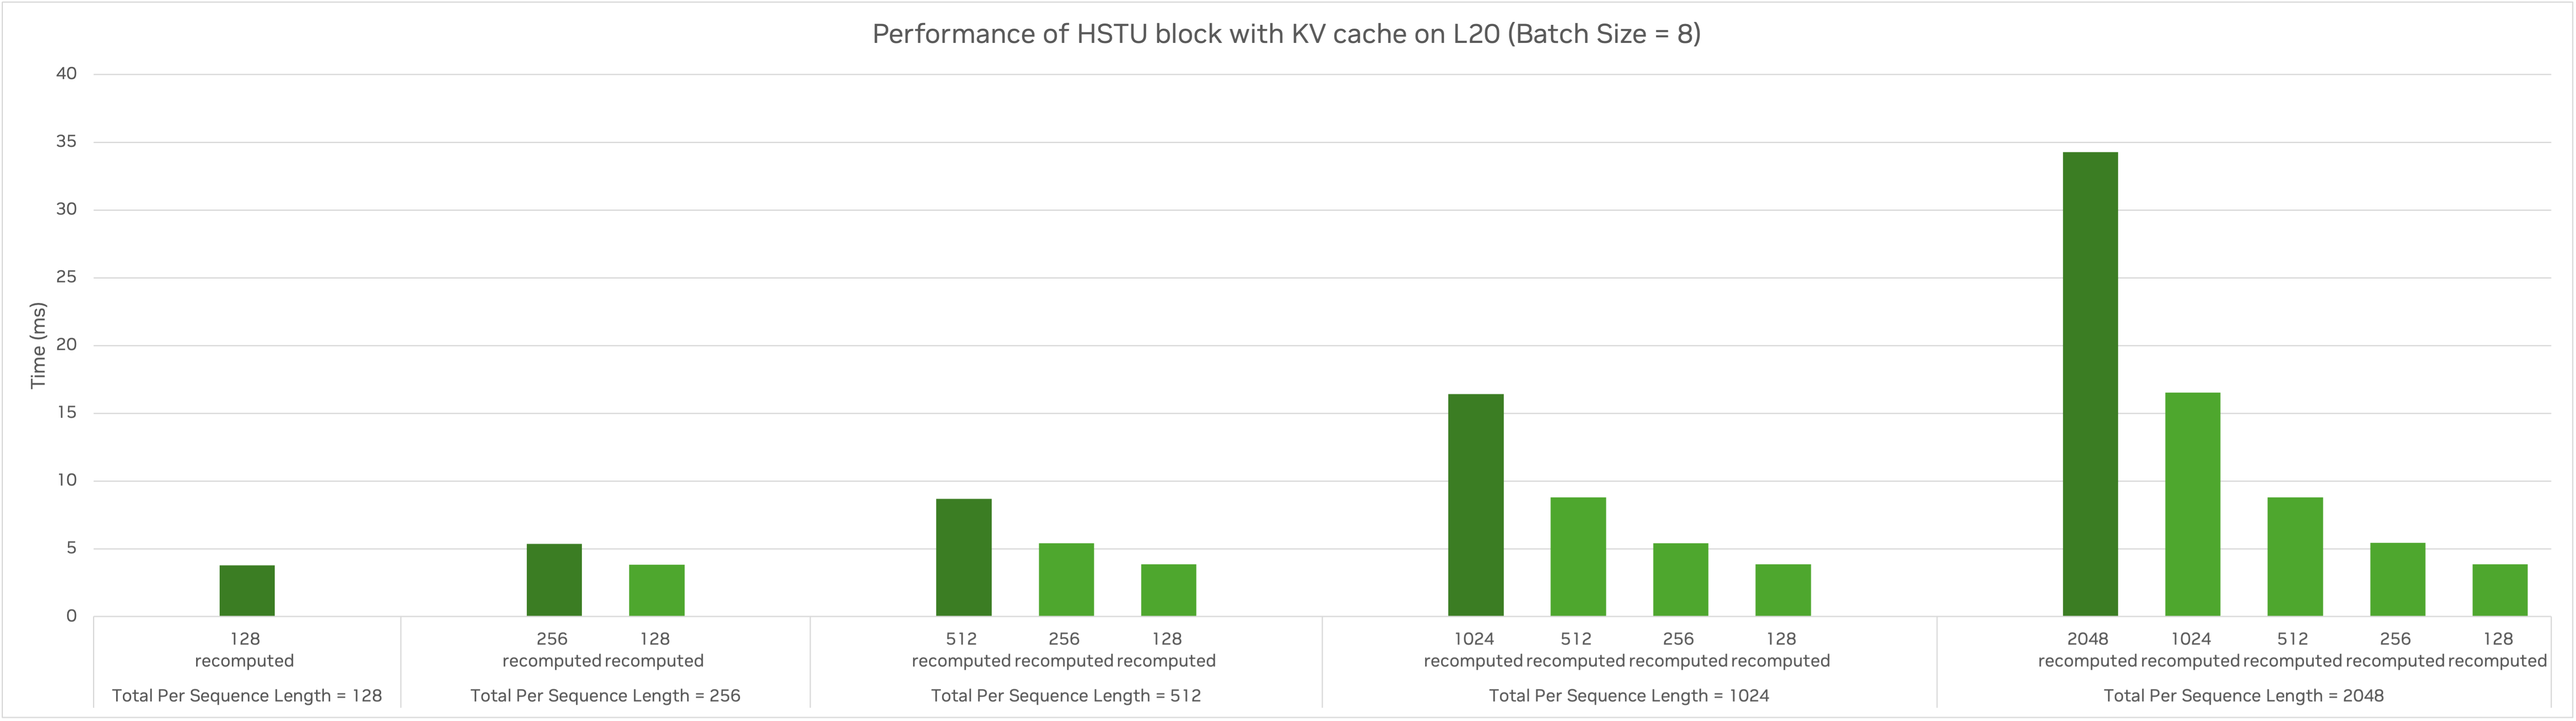
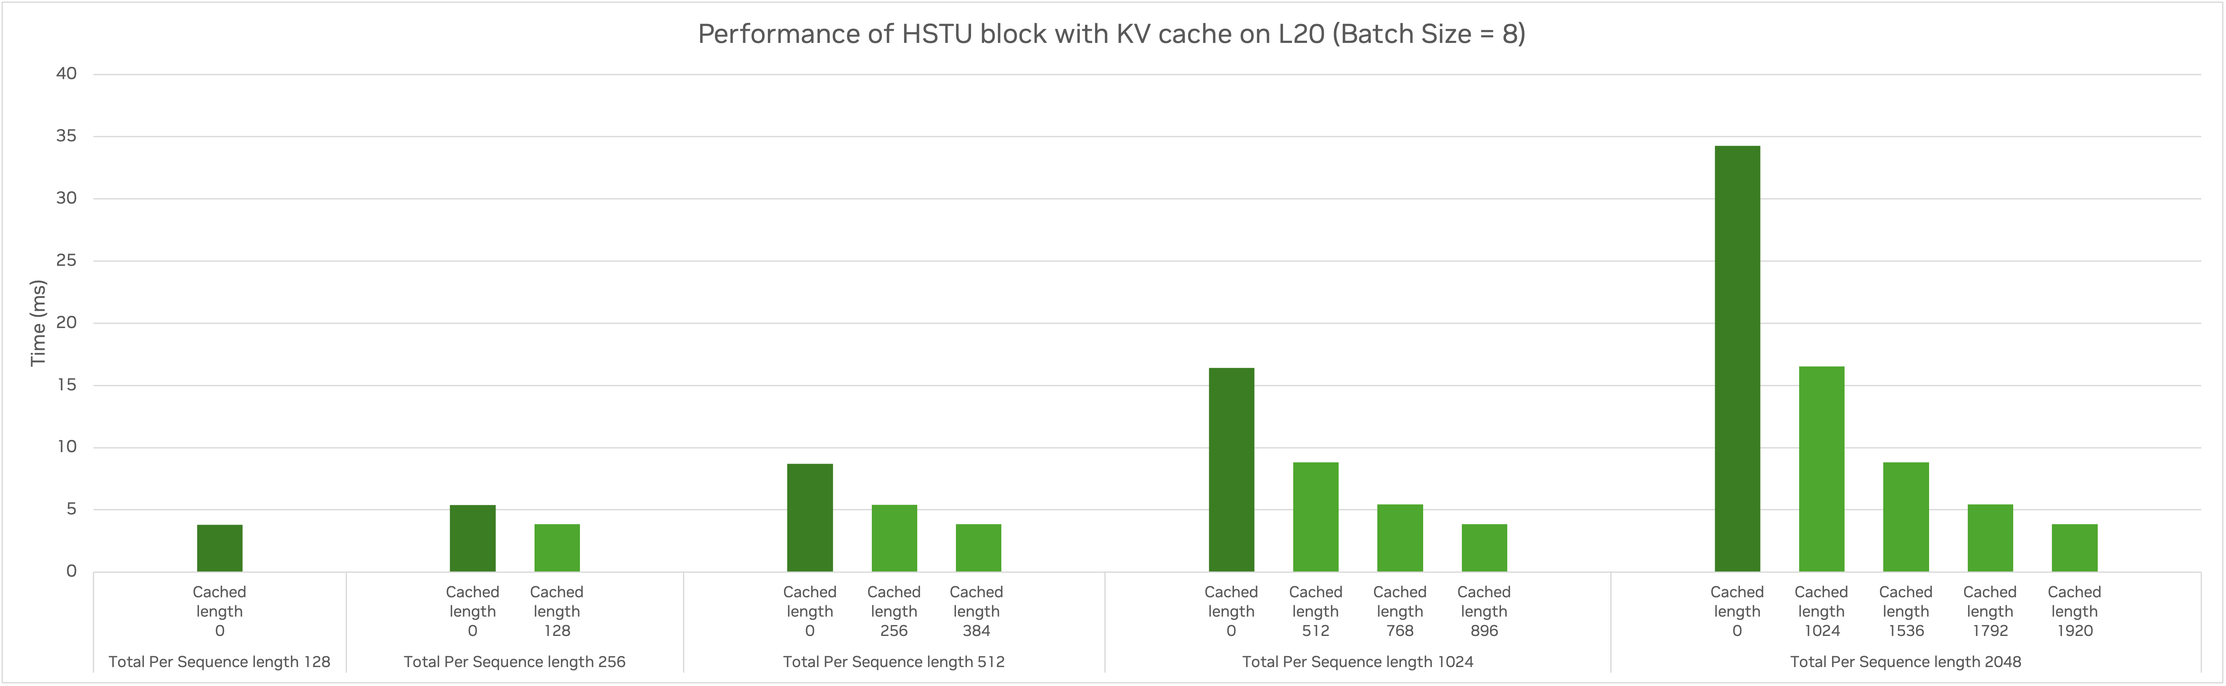
Modify inference benchmark and update doc.

diff --git a/examples/hstu/benchmark/inference_benchmark.py b/examples/hstu/benchmark/inference_benchmark.py
@@ -31,8 +31,8 @@ from inference_ranking_gr import InferenceRankingGR
 def run_ranking_gr_inference():
     max_batch_size = 16
     max_seqlen = 4096
-    max_num_candidates = 128
-    max_incremental_seqlen = 64
+    max_num_candidates = 256
+    max_incremental_seqlen = 128
 
     # context_emb_size = 1000
     item_fea_name, item_vocab_size = "item_feat", 10000
@@ -50,11 +50,15 @@ def run_ranking_gr_inference():
         [fc.max_sequence_length * len(fc.feature_names) for fc in feature_configs]
     )
 
-    hidden_dim_size = 512
+    hidden_dim_size = 1024
     num_heads = 4
-    head_dim = 128
+    head_dim = 256
     num_layers = 8
     inference_dtype = torch.bfloat16
+    hstu_cudagraph_configs = {
+        "batch_size": [1, 2, 4, 8],
+        "length_per_sequence": [i * 256 in range(2, 18)],
+    }
 
     hstu_config = get_inference_hstu_config(
         hidden_size=hidden_dim_size,
@@ -66,7 +70,7 @@ def run_ranking_gr_inference():
 
     _blocks_in_primary_pool = 10240
     _page_size = 32
-    _offload_chunksize = 64
+    _offload_chunksize = 8192
     kv_cache_config = get_kvcache_config(
         blocks_in_primary_pool=_blocks_in_primary_pool,
         page_size=_page_size,
@@ -104,24 +108,40 @@ def run_ranking_gr_inference():
             kvcache_config=kv_cache_config,
             task_config=task_config,
             use_cudagraph=True,
+            cudagraph_configs=hstu_cudagraph_configs,
         )
         model_predict.bfloat16()
         model_predict.eval()
 
         data_generator = RandomInferenceDataGenerator(
-            feature_configs,
-            item_fea_name,
-            [],
-            action_fea_name,
-            4096,
-            max_batch_size,
-            max_seqlen,
-            max_num_candidates,
-            max_incremental_seqlen,
-            False,
+            feature_configs=feature_configs,
+            item_feature_name=item_fea_name,
+            contextual_feature_names=[],
+            action_feature_name=action_fea_name,
+            max_num_users=16,
+            max_batch_size=8,  # test batch size
+            max_seqlen=2304,
+            max_num_candidates=max_num_candidates,
+            max_incremental_seqlen=max_incremental_seqlen,
+            full_mode=True,
         )
 
-        num_test_batches = 20
+        num_warmup_batches = 16
+        for idx in range(num_warmup_batches):
+            uids = data_generator.get_inference_batch_user_ids()
+
+            if uids is None:
+                break
+
+            cached_start_pos, cached_len = model_predict.get_user_kvdata_info(uids)
+            truncate_start_pos = cached_start_pos + cached_len
+            batch = data_generator.get_random_inference_batch(uids, truncate_start_pos)
+
+            model_predict.forward(batch, uids, truncate_start_pos)
+
+        num_test_batches = 16
+        ts_start, ts_end = [torch.cuda.Event(enable_timing=True) for _ in range(2)]
+        predict_time = 0.0
         for idx in range(num_test_batches):
             uids = data_generator.get_inference_batch_user_ids()
 
@@ -131,7 +151,14 @@ def run_ranking_gr_inference():
             cached_start_pos, cached_len = model_predict.get_user_kvdata_info(uids)
             truncate_start_pos = cached_start_pos + cached_len
             batch = data_generator.get_random_inference_batch(uids, truncate_start_pos)
+
+            torch.cuda.synchronize()
+            ts_start.record()
             model_predict.forward(batch, uids, truncate_start_pos)
+            ts_end.record()
+            torch.cuda.synchronize()
+            predict_time += ts_start.elapsed_time(ts_end)
+        print("Total time(ms):", predict_time)
 
 
 if __name__ == "__main__":

diff --git a/examples/hstu/dataset/random_inference_dataset.py b/examples/hstu/dataset/random_inference_dataset.py
@@ -38,7 +38,7 @@ class RandomInferenceDataGenerator:
         max_num_candidates (int): The maximum candidates number.
         max_incremental_seqlen (int): The maximum incremental length of HISTORY
                                       item AND action sequence.
-        incremental_mode (bool): The flag for incremental mode.
+        full_mode (bool): The flag for full batch mode.
     """
 
     def __init__(
@@ -52,7 +52,7 @@ class RandomInferenceDataGenerator:
         max_seqlen: int = 4096,
         max_num_candidates: int = 200,
         max_incremental_seqlen: int = 64,
-        incremental_mode: bool = False,
+        full_mode: bool = False,
     ):
         super().__init__()
 
@@ -73,16 +73,22 @@ class RandomInferenceDataGenerator:
         self._max_num_users = min(max_num_users, 2**16)
         self._max_batch_size = max_batch_size
         self._max_hist_len = max_seqlen - max_num_candidates
-        self._max_incr_fea_len = max(max_incremental_seqlen // 2, 1)
+        self._max_incr_fea_len = max(max_incremental_seqlen, 1)
         self._max_num_candidates = max_num_candidates
+
+        self._full_mode = full_mode
 
         self._item_history: Dict[int, torch.Tensor] = dict()
         self._action_history: Dict[int, torch.Tensor] = dict()
 
     def get_inference_batch_user_ids(self) -> Optional[torch.Tensor]:
-        batch_size = random.randint(1, self._max_batch_size)
-        user_ids = torch.randint(self._max_num_users, (batch_size,)).tolist()
-        user_ids = list(set(user_ids))
+        if self._full_mode:
+            batch_size = self._max_batch_size
+            user_ids = list(range(self._max_batch_size))
+        else:
+            batch_size = random.randint(1, self._max_batch_size)
+            user_ids = torch.randint(self._max_num_users, (batch_size,)).tolist()
+            user_ids = list(set(user_ids))
 
         user_ids = torch.tensor(
             [
@@ -92,6 +98,15 @@ class RandomInferenceDataGenerator:
                 or len(self._item_history[uid]) < self._max_hist_len
             ]
         ).long()
+        if self._full_mode and len(user_ids) == 0:
+            batch_size = self._max_batch_size
+            user_ids = list(
+                range(
+                    self._max_batch_size,
+                    min(self._max_batch_size * 2, self._max_num_users),
+                )
+            )
+            user_ids = torch.tensor(user_ids).long()
         return user_ids if len(user_ids) > 0 else None
 
     def get_random_inference_batch(
@@ -122,6 +137,13 @@ class RandomInferenceDataGenerator:
         num_candidates = torch.randint(
             low=1, high=self._max_num_candidates + 1, size=(batch_size,)
         )
+        if self._full_mode:
+            incr_lengths = torch.full((batch_size,), self._max_incr_fea_len)
+            new_lengths = torch.clamp(
+                lengths + incr_lengths, max=self._max_hist_len
+            ).long()
+            incr_lengths = new_lengths - lengths
+            num_candidates = torch.full((batch_size,), self._max_num_candidates)
 
         # Caveats: truncate_start_positions is for interleaved item-action sequence
         item_start_positions = (truncate_start_positions / 2).to(torch.int32)

diff --git a/examples/hstu/model/inference_ranking_gr.py b/examples/hstu/model/inference_ranking_gr.py
@@ -294,6 +294,9 @@ class InferenceRankingGR(torch.nn.Module):
                 kv_cache_metadata.onload_history_kv_buffer = (
                     self._kvcache_metadata.onload_history_kv_buffer[:]
                 )
+                kv_cache_metadata.onload_history_kv_events = (
+                    self._kvcache_metadata.onload_history_kv_events[:]
+                )
                 self._gpu_kv_cache_manager.onload(
                     self._host_kv_storage_manager.get_lookup_buffer(),
                     onload_length,

diff --git a/examples/hstu/benchmark/Inference_release.md b/examples/hstu/benchmark/Inference_release.md
@@ -48,15 +48,20 @@ The GPU KV cache is organized as a paged KV-data table, and supports KV data add
 
 The host KV data storage support adding/appending and lookup. We only present an example implementation, since this can be built over other database and can vary widely in the deployment.
 
-2. Optimization with CUDA graph
+2. Asynchronous H2D transfer of host KV data 
 
-We utilize the graph capture and replay support in Torch for convenient CUDA graph optimization on the HSTU layers. This decreases the overhead for kernel launch, especially for input with a small batch size.
+By using asynchronous data copy on the side CUDA stream, we overlap the host-to-device KV data transfer with HSTU computation layer-wise, to reduce the latency of HSTU inference.
 
-We break down the CUDA graph of HSTU blocks by layers, so that host KV data transfer to GPU can be overlapped with HSTU computation. Also, the input data (hidden states) fed to HSTU layers needs paddding to pre-determined batch size and sequence length, due to the requirement of static shape in CUDA graph.
+
+3. Optimization with CUDA graph
+
+We utilize the graph capture and replay support in Torch for convenient CUDA graph optimization on the HSTU layers. This decreases the overhead for kernel launch, especially for input with a small batch size. The input data (hidden states) fed to HSTU layers needs paddding to pre-determined batch size and sequence length, due to the requirement of static shape in CUDA graph.
+
+
 
 ## Benchmark Results
 
-Here we present the benchmark results of the HSTU layers with KV cache on L20 and L40 gpus.
+Here we present the benchmark results of the HSTU layers with KV cache on L20 gpus.
 
 HSTU Setup for benchmark:
 
@@ -70,11 +75,28 @@ HSTU Setup for benchmark:
 | Max Per Sequence Length | 4096 |
 | Per Sequence Targets Number | 256 |
 
+1. End-to-end inference performance
 
-Performance results for HSTU block (8-layers) on L20 GPU:
+Here we benchmarked with a synthetic input dataset:
+* Each user's input sequence starts from 256 tokens to 4096 in increments of 256.
+* Each input request has 256 item candidates for ranking.
+* Generate data for 1, 2, 4 and 8 users to benchmark with different batch size. 
+
+We can achieve **1.4x ~ 2.7x** performance speedup for inference (with batch size ranging from 1 to 8), after utilizing the KV cache and CUDA graph optimization.
+
+Performance results:
+
+![Local Image](inference_benchmark_l20.png)
+
+2. HSTU block performance
+
+Performance Results:
 
 ![Local Image](hstu_inference_l20_batch1.png)
 ![Local Image](hstu_inference_l20_batch8.png)
+
+When the input sequence has 2048 tokens in which 1920 tokens have KV data cached, we can achieve **5x ~ 10x** performance speedup on HSTU block (for batch size = 1 and 8 respectively).
+
 
 
 
